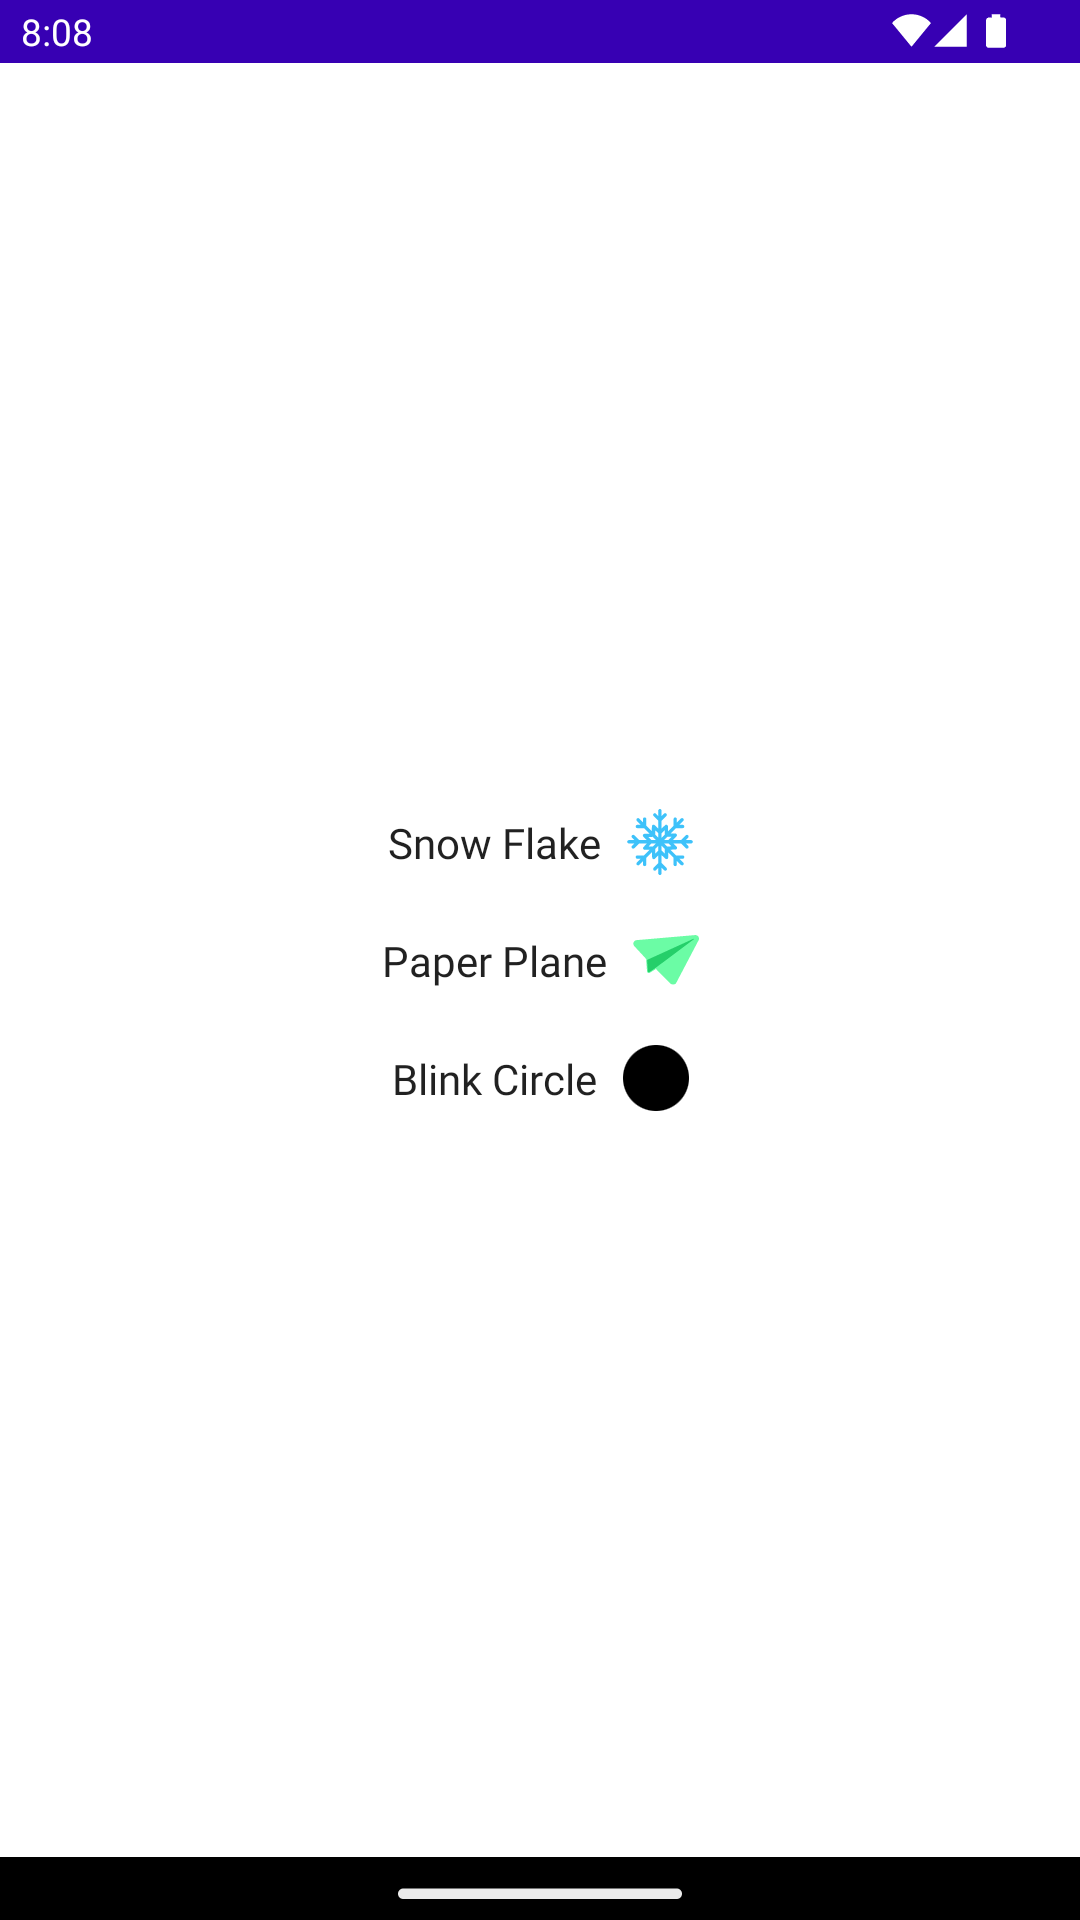
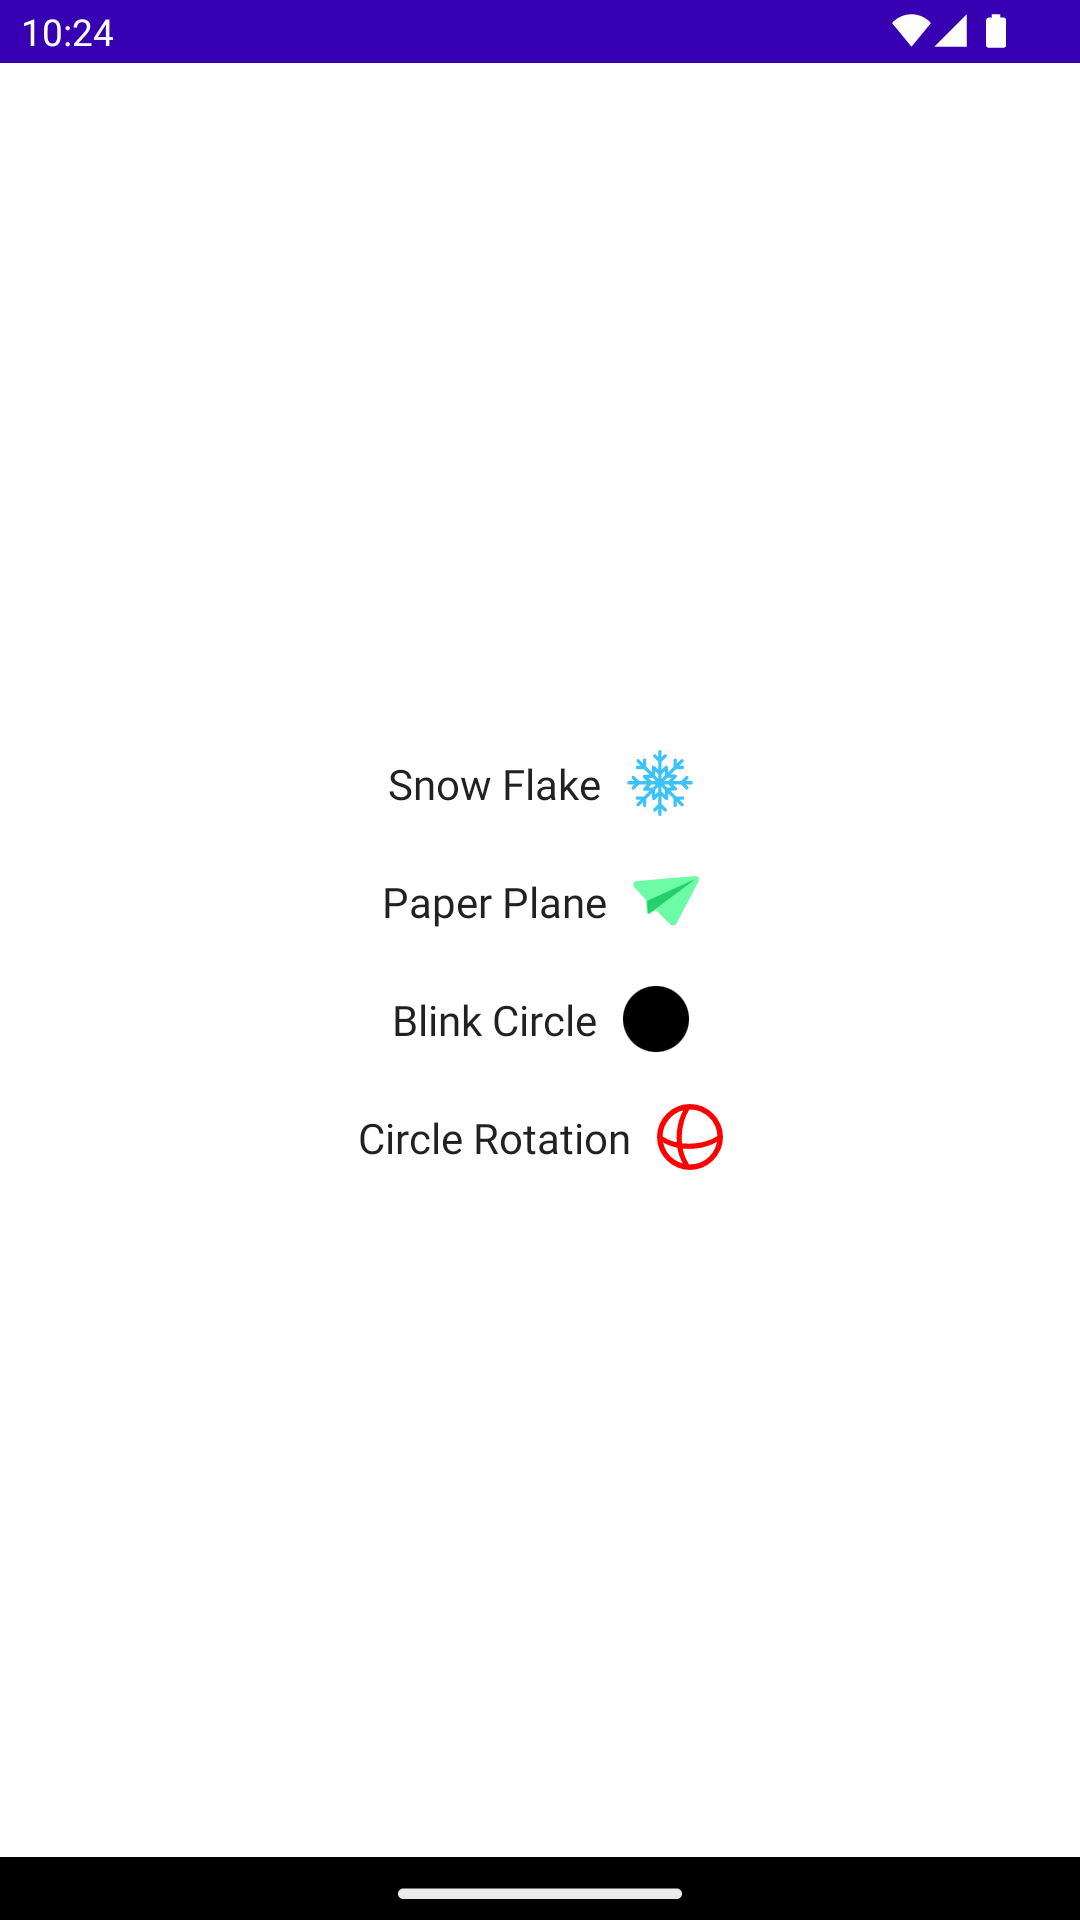
0.0.8
Circle Rotation has been added.

Changed region(s): [[0.3361, 0.375, 0.6722, 0.625], [0.0306, 0.0, 0.1222, 0.0312]]

diff --git a/app/src/main/java/com/esatgozcu/animationexamples/ui/view/CircleRotationView.kt b/app/src/main/java/com/esatgozcu/animationexamples/ui/view/CircleRotationView.kt
@@ -1,0 +1,130 @@
+package com.esatgozcu.animationexamples.ui.view
+
+import androidx.compose.animation.core.*
+import androidx.compose.foundation.background
+import androidx.compose.foundation.layout.*
+import androidx.compose.foundation.shape.CircleShape
+import androidx.compose.runtime.*
+import androidx.compose.ui.Alignment
+import androidx.compose.ui.Modifier
+import androidx.compose.ui.draw.alpha
+import androidx.compose.ui.draw.clip
+import androidx.compose.ui.draw.rotate
+import androidx.compose.ui.draw.scale
+import androidx.compose.ui.graphics.Brush
+import androidx.compose.ui.graphics.Color
+import androidx.compose.ui.unit.dp
+import androidx.lifecycle.viewmodel.compose.viewModel
+import com.esatgozcu.animationexamples.ui.viewModel.CircleRotationVM
+
+@Composable
+fun CircleRotationView(viewModel: CircleRotationVM = viewModel()) {
+
+    @Composable
+    fun infiniteRepeatable(): InfiniteRepeatableSpec<Float>{
+        return infiniteRepeatable(
+            animation = tween(
+                durationMillis = 2000,
+                easing = LinearOutSlowInEasing
+            ),
+            repeatMode = RepeatMode.Reverse
+        )
+    }
+
+    Box(
+        modifier = Modifier.fillMaxSize(),
+        contentAlignment = Alignment.Center
+    ) {
+        Box(
+            modifier = Modifier
+                .scale(
+                    animateFloatAsState(
+                        targetValue =
+                        if (viewModel.moveInOut.value)
+                            1.0.toFloat()
+                        else
+                            (1.0 / 4.0).toFloat(),
+                        animationSpec = infiniteRepeatable()
+                    ).value
+                )
+                .rotate(
+                    animateFloatAsState(
+                        targetValue =
+                        if (viewModel.moveInOut.value)
+                            180.toFloat()
+                        else
+                            0.toFloat(),
+                        animationSpec = infiniteRepeatable()
+                    ).value
+                ),
+        ) {
+            (0 until viewModel.itemCount).forEachIndexed { i, _ ->
+                Box(
+                    modifier = Modifier
+                        .rotate(
+                            degrees = animateFloatAsState(
+                                targetValue =
+                                if (viewModel.moveInOut.value)
+                                    (viewModel.degree * i).toFloat()
+                                else
+                                    0.toFloat(),
+                                animationSpec = infiniteRepeatable()
+                            ).value
+                        )
+                ) {
+                    Box(
+                        modifier = Modifier
+                            .size(viewModel.itemSize.value.dp)
+                            .offset(
+                                y = animateFloatAsState(
+                                    targetValue =
+                                    if (viewModel.moveInOut.value)
+                                        -viewModel.itemSize.value.div(2).toFloat()
+                                    else
+                                        0.toFloat(),
+                                    animationSpec = infiniteRepeatable()
+                                ).value.dp
+                            )
+                            .clip(CircleShape)
+                            .alpha(0.5f)
+                            .background(
+                                brush = Brush.verticalGradient(
+                                    colors = listOf(
+                                        Color.Red,
+                                        Color.White
+                                    )
+                                ), alpha = 0.5f
+                            )
+                    )
+                    Box(
+                        modifier = Modifier
+                            .size(viewModel.itemSize.value.dp)
+                            .offset(
+                                y = animateFloatAsState(
+                                    targetValue =
+                                    if (viewModel.moveInOut.value)
+                                        +viewModel.itemSize.value.div(2).toFloat()
+                                    else
+                                        0.toFloat(),
+                                    animationSpec = infiniteRepeatable()
+                                ).value.dp
+                            )
+                            .clip(CircleShape)
+                            .background(
+                                brush = Brush.verticalGradient(
+                                    colors = listOf(
+                                        Color.White,
+                                        Color.Blue
+                                    )
+                                ), alpha = 0.5f
+                            )
+                    )
+                }
+            }
+        }
+    }
+
+    LaunchedEffect(Unit) {
+        viewModel.moveInOut.value = true
+    }
+}

diff --git a/app/src/main/java/com/esatgozcu/animationexamples/navigation/NavGraph.kt b/app/src/main/java/com/esatgozcu/animationexamples/navigation/NavGraph.kt
@@ -8,10 +8,8 @@ import androidx.lifecycle.viewmodel.viewModelFactory
 import androidx.navigation.NavHostController
 import androidx.navigation.compose.NavHost
 import androidx.navigation.compose.composable
-import com.esatgozcu.animationexamples.ui.view.BlinkCircleView
-import com.esatgozcu.animationexamples.ui.view.HomePage
-import com.esatgozcu.animationexamples.ui.view.PaperPlaneView
-import com.esatgozcu.animationexamples.ui.view.SnowFlakeView
+import com.esatgozcu.animationexamples.ui.view.*
+import com.esatgozcu.animationexamples.ui.viewModel.CircleRotationVM
 import com.esatgozcu.animationexamples.ui.viewModel.SnowFlakeVM
 
 @Composable
@@ -32,6 +30,9 @@ fun NavGraph(navController: NavHostController) {
         composable(route = Screens.BlinkCircle.route) {
             BlinkCircleView()
         }
+        composable(route = Screens.CircleRotation.route) {
+            CircleRotationView()
+        }
     }
 }
 
@@ -40,4 +41,5 @@ sealed class Screens(val route: String) {
     object SnowFlake: Screens("SnowFlake")
     object PaperPlane: Screens("PaperPlane")
     object BlinkCircle: Screens("BlinkCircle")
+    object CircleRotation: Screens("CircleRotation")
 }

diff --git a/app/src/main/java/com/esatgozcu/animationexamples/ui/viewModel/CircleRotationVM.kt b/app/src/main/java/com/esatgozcu/animationexamples/ui/viewModel/CircleRotationVM.kt
@@ -1,0 +1,13 @@
+package com.esatgozcu.animationexamples.ui.viewModel
+
+import androidx.compose.runtime.mutableStateOf
+import androidx.lifecycle.ViewModel
+import com.esatgozcu.animationexamples.helper.ScreenSize
+
+class CircleRotationVM: ViewModel() {
+
+    val itemSize = mutableStateOf(ScreenSize.screensWidth/2.0)
+    var moveInOut = mutableStateOf(false)
+    var itemCount = 3
+    var degree =  (360.0).div(itemCount)
+}

diff --git a/app/src/main/java/com/esatgozcu/animationexamples/ui/view/HomePage.kt b/app/src/main/java/com/esatgozcu/animationexamples/ui/view/HomePage.kt
@@ -53,6 +53,9 @@ fun HomePage(navController: NavController) {
                     .background(Color.Black)
             )
         }
+        HomePageItem(title = "Circle Rotation", image = R.drawable.ic_rotate_3d){
+            navController.navigate(Screens.CircleRotation.route)
+        }
     }
 }
 

diff --git a/README.md b/README.md
@@ -11,4 +11,5 @@ Name|Animation
 --- | ---
 **#[Snow Flake](app/src/main/java/com/esatgozcu/animationexamples/ui/view/SnowFlakeView.kt)** | <img src="documentFolder/SnowFlake.gif" width="360" height="640"/>
 **#[Paper Plane](app/src/main/java/com/esatgozcu/animationexamples/ui/view/PaperPlaneView.kt)** | <img src="documentFolder/PaperPlane.gif" width="360" height="640"/>
-**#[BlinkCircle](app/src/main/java/com/esatgozcu/animationexamples/ui/view/BlinkCircleView.kt)** | <img src="documentFolder/BlinkCircle.gif" width="360" height="640"/>
+**#[Blink Circle](app/src/main/java/com/esatgozcu/animationexamples/ui/view/BlinkCircleView.kt)** | <img src="documentFolder/BlinkCircle.gif" width="360" height="640"/>
+**#[Circle Rotation](app/src/main/java/com/esatgozcu/animationexamples/ui/view/CircleRotationView.kt)** | <img src="documentFolder/CircleRotation.gif" width="360" height="640"/>
